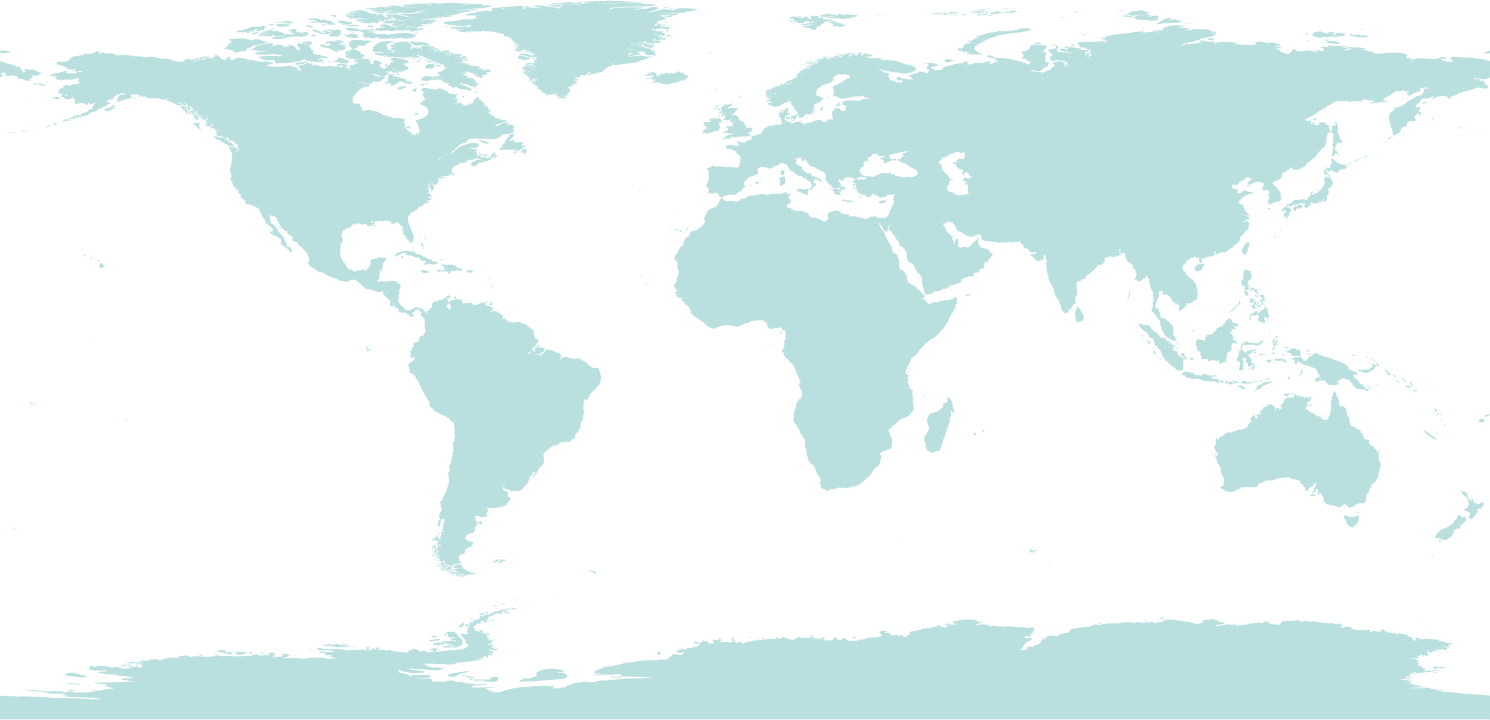
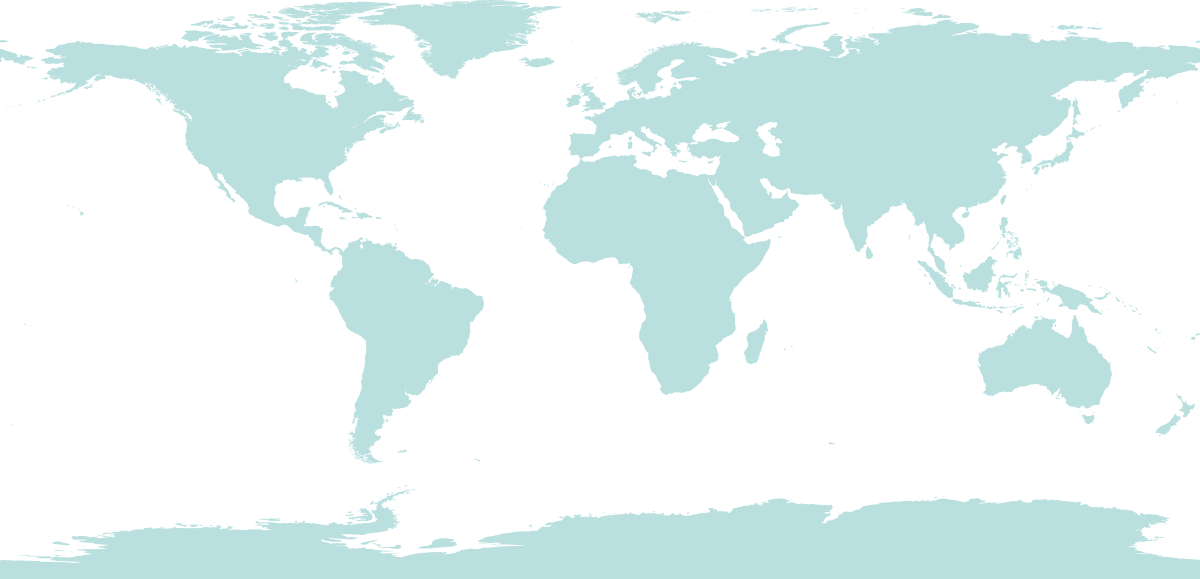
map bg is now 1200px wide, and there is a function to plot places.

diff --git a/webapp/assets/main.js b/webapp/assets/main.js
@@ -16,6 +16,39 @@ var featureDetection = function() {
 }
 
 /******************************************************************************
+ * Map-related math
+ *****************************************************************************/
+
+MAP_WIDTH = 1200;
+MAP_HEIGHT = 579;
+
+/**
+ * Goes from "('42.0450722', '-87.6876969')" to {x:..., y:...}
+ */
+var toXY = function(latlngstr) {
+  var latlng = latlngstr.match(/([0-9\.-]+)/g);
+  if (latlng.length !== 2) {
+    console.error('latlng.length should be 2! latlng: ' + latlng);
+  }
+
+  var lat = parseFloat(latlng[0]);
+  var lng = parseFloat(latlng[1]);
+
+  // Not quite sure why, but the points plotted here aren't correctly aligning
+  // on the y axis. Maybe because the North Pole isn't there in the set of
+  // polygons used to generate our map background?
+  var FUDGE_FACTOR = 15;
+
+  return {
+    x: ((MAP_WIDTH/360.0) * (180 + lng)),
+    y: ((MAP_HEIGHT/180.0) * (90 - lat) - FUDGE_FACTOR)
+  }
+};
+
+console.log("paris", toXY("('48.856614', '2.3522219')"));
+
+
+/******************************************************************************
  * SVG Manipulation
  *****************************************************************************/
 
@@ -71,8 +104,13 @@ var createPlace = function(placeId, x, y) {
   });
 };
 
-createPlace("sf", 237, 180);
-createPlace("paris", 757, 150);
+
+var paris = toXY("('48.856614', '2.3522219')");
+var evanston = toXY("('42.0450722', '-87.6876969')");
+var sf = toXY("('37.7749295', '-122.4194155')");
+createPlace("evanston", evanston.x, evanston.y);
+createPlace("paris", paris.x, paris.y);
+createPlace("sf", sf.x, sf.y);
 
 /**
  * Adds animations to our #animations element. Each animation looks like:
@@ -116,7 +154,7 @@ var onSliderChange = function(e) {
 };
 
 /******************************************************************************
- *
+ * Ready? Get set? Go.
  *****************************************************************************/
 var start = function() {
   setUpSlider();

diff --git a/webapp/index.html b/webapp/index.html
@@ -13,7 +13,7 @@
 </head>
 
 <body>
-  <svg xmlns="http://www.w3.org/2000/svg" xmlns:xlink="http://www.w3.org/1999/xlink" viewBox="0 0 1490 720" width="1490" height="720" version="1.0">
+  <svg xmlns="http://www.w3.org/2000/svg" xmlns:xlink="http://www.w3.org/1999/xlink" width="1200" height="579" version="1.0">
   <!--[if gt IE 8]><!-->
   <switch>
     <g class="hide-me-from-older-browsers">

diff --git a/map/run.py b/map/run.py
@@ -7,9 +7,9 @@ mapnik.register_fonts('/Library/Fonts/');
 
 #for face in mapnik.FontEngine.face_names(): print face
 
-m = mapnik.Map(1490, 720)
+m = mapnik.Map(1200, 1)
+m.aspect_fix_mode = mapnik.aspect_fix_mode.GROW_CANVAS
 mapnik.load_map(m, stylesheet)
 m.zoom_all()
-#m.pan_and_zoom(1000, 400, 0.4)
 mapnik.render_to_file(m, image)
 print "rendered image to '%s'" % image
